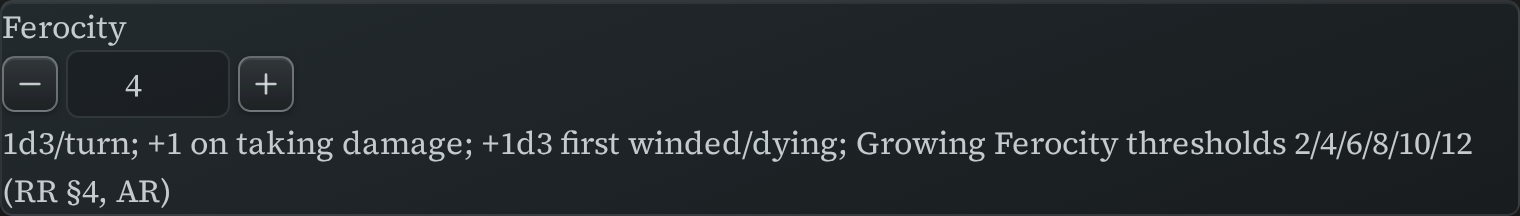
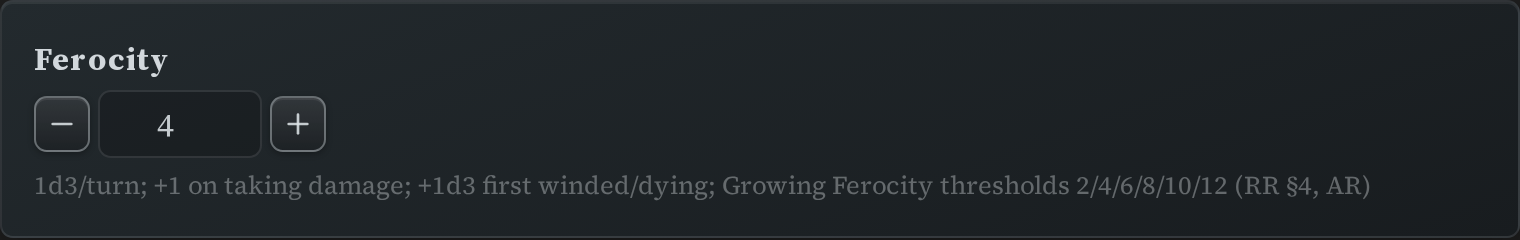
fix(steel): un-double-plate the hero sheet; repair the res/surge dead selectors (SC-152)
Adversarial-review fix round.

H-1 — `hero` is out of the shared plate again. `.dse-hero`, one node down, has
carried the full plate since SC-10 (a class-keyed rule, invisible to an
element-stamp probe), so adding the root produced two concentric frames: root
760x1101.9 with `.dse-hero` inset 17px inside it, where base had the two rects
coinciding at 24,24 760x1067.9. Removed from the dark plate, the light plate and
the root-padding lists, and from the guard's SHEET_PANELS. Measured after:
both rects back to 24,24 760x1067.9, first ink at 17/17 as at base.

H-2 — the root cause behind the heroic-resource/surges crop. ResourcePanel and
SurgePanel `root.addClass(...)` on the stamped element, so
`[data-dse-element="heroic-resource"] .dse-res` and its surges twin had both
halves on the same node and had never matched since D7: no padding, no bold
label. SC-152's plate made that ship (1px ink inset, clipped stepper). Both
selectors are compound now, matching the DOM as it is. Measured after: 17/17 ink
inset and weight 700 on both, in family with hero-tokens. Deliberately not
unscoped the way FOLLOWUPS #28 did for `.dse-cond-panel` — that would restyle the
hero sheet's own regions, which is a design question, not this repair.

Those blocks are base-tier, so the repair reaches the export-preview twin: two
frozen shots move (`heroic-resource--steel-print.png`, `surges--steel-print.png`,
65/67 identical). Ready-to-apply hashes and before/after crops are in
[…]

diff --git a/test/dom/theme/steelMaterial.test.ts b/test/dom/theme/steelMaterial.test.ts
@@ -1315,9 +1315,19 @@ describe('Steel material contract', () => {
 	// is the mechanism that notices if they fall back out.
 	describe('character-sheet panels (SC-152)', () => {
 		/** The ONE shared card-ground rule — identified by what it paints, not by its
-		 *  selector text, so reformatting the selector list cannot make this vacuous. */
+		 *  selector text, so reformatting the selector list cannot make this vacuous.
+		 *  ANCHORED on `counter` (SC-152 review L-1): three rules in the sheet paint
+		 *  `background: var(--dse-card-bg)` — this one, `.dse-hero` (~6980) and the
+		 *  stamina recovery popover (~8452) — and taking the FIRST match was right only
+		 *  by source order, so a reorder would have silently retargeted the whole block
+		 *  at a different rule. `counter` is the shared ground's oldest member and is
+		 *  what `rootPadding()` already anchors on. */
 		const plateDark = (): Rule => {
-			const r = rules.find((x) => /background:\s*var\(--dse-card-bg\)/.test(x.body));
+			const r = rules.find(
+				(x) =>
+					/background:\s*var\(--dse-card-bg\)/.test(x.body) &&
+					x.selector.includes("[data-dse-element='counter']"),
+			);
 			expect(r).toBeDefined();
 			return r as Rule;
 		};
@@ -1325,6 +1335,7 @@ describe('Steel material contract', () => {
 			const r = rules.find(
 				(x) =>
 					x.selector.includes('body.theme-light') &&
+					x.selector.includes("[data-dse-element='counter']") &&
 					/box-shadow:\s*var\(--dse-bevel\),\s*0 4px 12px/.test(x.body),
 			);
 			expect(r).toBeDefined();
@@ -1341,7 +1352,8 @@ describe('Steel material contract', () => {
 			return r as Rule;
 		};
 
-		/** The eight panels SC-152 brought into the family. */
+		/** The seven panels SC-152 brought into the family.
+		 *  `hero` is NOT one of them — see the dedicated test below. */
 		const SHEET_PANELS = [
 			'characteristics',
 			'values-row',
@@ -1350,7 +1362,6 @@ describe('Steel material contract', () => {
 			'surges',
 			'hero-tokens',
 			'conditions',
-			'hero',
 		];
 
 		it.each(SHEET_PANELS)(
@@ -1381,41 +1392,124 @@ describe('Steel material contract', () => {
 			return out;
 		};
 
-		it('the arm carrying them is print-excluded — paper keeps the plain rendering', () => {
-			// The whole freeze story of this ticket: every SC-152 selector sits behind
-			// :not([data-dse-print="on"]), so not one *--steel-print.png moves. If someone
-			// drops the exclusion, 10+ frozen shots start failing and this fails first,
-			// with a reason attached.
+		/** The `.dse-statgrid__*` rules SC-152 added / joined, found by what they paint. */
+		const statgridCellPad = (): Rule => {
+			const r = rules.find(
+				(x) =>
+					x.selector.includes('.dse-statgrid__cell') &&
+					/^\s*padding:\s*0\.45rem 0\.3rem;\s*$/.test(x.body),
+			);
+			expect(r).toBeDefined();
+			return r as Rule;
+		};
+		const statgridLabel = (): Rule => {
+			const r = rules.find(
+				(x) =>
+					x.selector.includes('.dse-statgrid__label') &&
+					/font-variant:\s*small-caps/.test(x.body),
+			);
+			expect(r).toBeDefined();
+			return r as Rule;
+		};
+		/** The shared sunken-cell rule `.dse-statgrid__cell` joined. */
+		const sunkenCells = (): Rule => {
+			const r = rules.find(
+				(x) =>
+					/background:\s*var\(--dse-surface-sunken\)/.test(x.body) &&
+					x.selector.includes('.dse-init__cell'),
+			);
+			expect(r).toBeDefined();
+			return r as Rule;
+		};
+
+		it('EVERY rule SC-152 touches is print-excluded — paper keeps the plain rendering', () => {
+			// The screen-only story of this ticket: every SC-152 selector sits behind
+			// :not([data-dse-print="on"]), so not one *--steel-print.png moves *because of
+			// the plate*. If someone drops the exclusion, 10+ frozen shots start failing
+			// and this fails first, with a reason attached.
+			//
+			// SC-152 review L-2: the first version of this sweep walked only the three
+			// element-id rules and counted 3, leaving the two `.dse-statgrid__*` rules and
+			// the sunken-cell membership unguarded (they carried the exclusion; it just was
+			// not asserted). All six touched rules are in the sweep now, each with the
+			// marker that identifies SC-152's own contribution to it.
+			//
+			// SCOPE NOTE (SC-152 review H-3): `:not([data-dse-print="on"])` excludes the
+			// on-screen export-PREVIEW twin — which is the surface the frozen
+			// `*--steel-print.png` shots photograph. Real `@media print` is a separate
+			// surface that this exclusion does NOT cover, because Steel's token block
+			// outspecifies the print block; that is a pre-existing, systemic bug tracked as
+			// SC-170, not something this sweep can or does assert.
+			const sweep: { rule: Rule; markers: string[] }[] = [
+				{ rule: plateDark(), markers: SHEET_PANELS.map((id) => `[data-dse-element='${id}']`) },
+				{ rule: plateLight(), markers: SHEET_PANELS.map((id) => `[data-dse-element='${id}']`) },
+				{ rule: rootPadding(), markers: SHEET_PANELS.map((id) => `[data-dse-element='${id}']`) },
+				{ rule: sunkenCells(), markers: ['.dse-statgrid__cell'] },
+				{ rule: statgridCellPad(), markers: ['.dse-statgrid__cell'] },
+				{ rule: statgridLabel(), markers: ['.dse-statgrid__label'] },
+			];
 			let checked = 0;
-			for (const rule of [plateDark(), plateLight(), rootPadding()]) {
+			for (const { rule, markers } of sweep) {
 				for (const arm of topLevelArms(rule.selector)) {
-					if (!SHEET_PANELS.some((id) => arm.includes(`[data-dse-element='${id}']`))) continue;
+					if (!markers.some((m) => arm.includes(m))) continue;
 					expect(arm).toContain(':not([data-dse-print="on"])');
 					checked++;
 				}
 			}
-			// Guard the guard: if the splitter or the rule finders ever stop producing an
-			// arm that mentions a sheet panel, the loop above passes by doing nothing.
-			expect(checked).toBe(3);
+			// Guard the guard: if the splitter or the rule finders ever stop producing a
+			// marked arm, the loop above passes by doing nothing. One arm per rule today.
+			expect(checked).toBe(6);
 		});
 
-		it('stamina-bar and roll are deliberately NOT plated', () => {
+		it('stamina-bar, roll and hero are deliberately NOT plated at the root', () => {
 			// stamina-bar renders its SC-132 interior inside its own collapsible region
 			// frame — a root plate would DOUBLE-frame it. roll is already plated: it
-			// renders an inner `.dse-card`, which the plate rule already matches. Both
-			// exclusions are judgement calls, so they get a test rather than a comment
-			// alone: re-adding either should be a decision, not a drive-by.
-			for (const id of ['stamina-bar', 'roll']) {
+			// renders an inner `.dse-card`, which the plate rule already matches. hero is
+			// the same case as roll one node down: its `.dse-hero` wrapper carries the full
+			// plate (see the next test), and SC-152's first round put the ROOT in the list
+			// too, which shipped two concentric frames on the flagship sheet (the review's
+			// H-1). All three exclusions are judgement calls, so they get a test rather
+			// than a comment alone: re-adding any of them should be a decision, not a
+			// drive-by.
+			for (const id of ['stamina-bar', 'roll', 'hero']) {
 				expect(plateDark().selector).not.toContain(`[data-dse-element='${id}']`);
 				expect(plateLight().selector).not.toContain(`[data-dse-element='${id}']`);
+				expect(rootPadding().selector).not.toContain(`[data-dse-element='${id}']`);
 			}
 		});
 
-		it('only the panels whose inner wrapper does NOT already pad get root padding', () => {
+		it('the hero sheet keeps its plate on the inner .dse-hero, one node down', () => {
+			// The other half of the previous test: `hero` is out of the shared list because
+			// it is ALREADY plated, not because the sheet is meant to be bare. This is a
+			// class-keyed rule, which is why the SC-152 inventory's element-stamp probe
+			// could not see it and concluded the sheet had no outer edge.
+			const heroPlate = rules.find(
+				(r) =>
+					/background:\s*var\(--dse-card-bg\)/.test(r.body) &&
+					r.selector.includes('.dse-hero') &&
+					STEEL_SCOPE.test(r.selector),
+			);
+			expect(heroPlate).toBeDefined();
+			expect(heroPlate!.body).toMatch(/border:\s*1px solid var\(--dse-border\)/);
+			expect(heroPlate!.body).toMatch(/border-radius:\s*var\(--dse-radius\)/);
+			expect(heroPlate!.body).toMatch(/box-shadow:\s*var\(--dse-bevel\)/);
+			// …and it pads itself, which is why `hero` is out of the root-padding list too.
+			expect(heroPlate!.body).toMatch(/padding:\s*var\(--dse-pad\)/);
+		});
+
+		it('only the panels whose own block does NOT already pad get root padding', () => {
 			// The double-padding trap: .dse-res / .dse-surge / .dse-tokens carry
-			// `padding: var(--dse-pad)` themselves, so adding it to their roots too would
-			// double the inset on exactly those three and nothing else would look wrong.
-			for (const id of ['characteristics', 'values-row', 'skills', 'conditions', 'hero']) {
+			// `padding: var(--dse-pad)` in their own element blocks (~3249/~3273/~3295), so
+			// adding it to their roots too would double the inset on exactly those three
+			// and nothing else would look wrong.
+			// SC-152 fix round: for .dse-res / .dse-surge that was true of the STYLESHEET
+			// but not of the DOM — their blocks were joined to the element stamp by a dead
+			// descendant combinator, so the padding never applied and the panels cropped
+			// their content against the new plate at a 1px ink inset. The repair is in
+			// those blocks (compound selector), pinned by
+			// test/dom/elements/{resource,surges}.test.ts; the split here is unchanged and
+			// is now true in the DOM as well: all three sit at a 17px ink inset.
+			for (const id of ['characteristics', 'values-row', 'skills', 'conditions']) {
 				expect(rootPadding().selector).toContain(`[data-dse-element='${id}']`);
 			}
 			for (const id of ['heroic-resource', 'surges', 'hero-tokens']) {

diff --git a/styles-source.css b/styles-source.css
@@ -3594,8 +3594,28 @@ Shared globals
 /* ==================== */
 /* A class-aware, signed stepper (kit .dse-stepper — its own chrome, no color/geometry
    redeclared here) with a label (the resolved resource name, e.g. "Ferocity") above and
-   a gain-rule hint line below. Tokens only — no color literals. */
-[data-dse-element="heroic-resource"] .dse-res {
+   a gain-rule hint line below. Tokens only — no color literals.
+
+   COMPOUND, not descendant (SC-152 fix round). ResourcePanel.mountPanel does
+   `root.addClass('dse-res')` on the element root it is handed (resource/panel.ts:42),
+   so the two halves of `[data-dse-element="heroic-resource"] .dse-res` were the SAME
+   node and this whole block — padding AND the bold label — had never matched anything
+   since D7 shipped. The standalone panel therefore rendered flush against its own
+   border box (1px ink inset once SC-152 gave it a plate) with an un-bold "Ferocity"
+   label, where hero-tokens' otherwise-identical block (~3295) has always been live
+   because TokenPoolContainer really does create an inner `.dse-tokens` wrapper.
+   Fixing the SELECTOR rather than the DOM keeps the hero sheet's embedded region
+   (which gets `.dse-res` on a `.dse-hero__region` div, under a `hero` root) exactly
+   as it renders today — the compound can still only match the STANDALONE element.
+   NOTE the deliberate divergence from FOLLOWUPS #28, which repaired the identical
+   dead-descendant bug on `.dse-cond-panel` (~3188) by UNSCOPING it so the hero
+   sheet's embedded Conditions region picked the rules up too. Doing that here would
+   also restyle the hero sheet's Resource/Surges regions — which already carry their
+   own `.dse-hero__region` heading, so the panel's own bold label would read as a
+   second one — and would move three more frozen `hero*--steel-print.png` shots. That
+   is a hero-sheet design question, not this repair; the compound keeps the blast
+   radius at the two standalone elements SC-152 actually plated. */
+[data-dse-element="heroic-resource"].dse-res {
 	display: flex;
 	flex-direction: column;
 	gap: 0.25em;
@@ -3618,8 +3638,13 @@ Shared globals
 /* The simplest HeroPanel yet: a label above a stepper (kit .dse-stepper — its own
    chrome, no color/geometry redeclared here), with an optional "each = +N damage" hint
    line below (shown only when highest_characteristic is authored). Tokens only — no
-   color literals. */
-[data-dse-element="surges"] .dse-surge {
+   color literals.
+
+   COMPOUND, not descendant — same repair, same reason as heroic-resource above:
+   SurgePanel.mountPanel does `root.addClass('dse-surge')` (surges/panel.ts:38), so
+   the descendant form never matched and the "Surges" label was un-bold and unpadded.
+   (SC-152 fix round.) */
+[data-dse-element="surges"].dse-surge {
 	display: flex;
 	flex-direction: column;
 	gap: 0.25em;
@@ -4727,6 +4752,13 @@ body.theme-light [data-dse-theme='steel']:not([data-dse-print="on"])[data-dse-el
        inside its own collapsible region frame; a root plate would DOUBLE-frame it.
      - `roll` — already plated: it renders an inner `.dse-card`, which the last
        selector below already matches.
+     - `hero` — ALSO already plated, one node down: the sheet's own `.dse-hero`
+       wrapper (hero/view.ts, `root.createDiv({ cls: 'dse-hero' })`) carries the
+       full plate at ~6980, class-keyed rather than element-keyed. SC-152's first
+       round added the ROOT here as well and produced two concentric frames
+       (root 760×1101.9 with `.dse-hero` inset 17px inside it, where base had the
+       two rects coinciding exactly at 24,24 760×1067.9). If a root-level plate is
+       ever wanted it must REPLACE `.dse-hero`'s, not stack on it.
      - `hero`'s embedded regions — structurally unreachable from here, and that is
        the point: the sheet stamps [data-dse-element="hero"] on its ROOT only and
        its regions carry no element attr of their own (they take
@@ -4749,8 +4781,7 @@ body.theme-light [data-dse-theme='steel']:not([data-dse-print="on"])[data-dse-el
 		[data-dse-element='heroic-resource'],
 		[data-dse-element='surges'],
 		[data-dse-element='hero-tokens'],
-		[data-dse-element='conditions'],
-		[data-dse-element='hero']
+		[data-dse-element='conditions']
 	):not([data-dse-error-stage]),
 [data-dse-theme='steel']:not([data-dse-print="on"]) .dse-card {
 	background: var(--dse-card-bg);
@@ -4775,8 +4806,7 @@ body.theme-light [data-dse-theme='steel']:not([data-dse-print="on"]):is(
 		[data-dse-element='heroic-resource'],
 		[data-dse-element='surges'],
 		[data-dse-element='hero-tokens'],
-		[data-dse-element='conditions'],
-		[data-dse-element='hero']
+		[data-dse-element='conditions']
 	):not([data-dse-error-stage]),
 body.theme-light [data-dse-theme='steel']:not([data-dse-print="on"]) .dse-card {
 	box-shadow: var(--dse-bevel), 0 4px 12px rgba(0, 0, 0, 0.08);
@@ -7905,12 +7935,16 @@ body.theme-light [data-dse-theme='steel']:not([data-dse-print="on"]) .dse-hero {
 
       SC-152 adds the character-sheet panels that are in the SAME position — root
       unpadded, so the new plate would otherwise crop its own content. It is a
-      per-element fact, not a family one, so only the five that need it are listed:
-      `heroic-resource`, `surges` and `hero-tokens` deliberately stay OUT because
-      their inner wrappers (.dse-res / .dse-surge / .dse-tokens) already carry
-      `padding: var(--dse-pad)` themselves — adding it here too would double the
-      inset on exactly those three. Measured, not assumed (see the SC-152 report's
-      inventory table). */
+      per-element fact, not a family one, so only the four that need it are listed.
+      `heroic-resource`, `surges` and `hero-tokens` stay OUT because their own
+      element blocks (~3249 / ~3273 / ~3297) already carry
+      `padding: var(--dse-pad)` in every theme — adding it here too would double
+      the inset on exactly those three. (SC-152 fix round: for `heroic-resource`
+      and `surges` that was true of the STYLESHEET but not of the DOM until the
+      dead descendant selectors at ~3249/~3273 were repaired — see the note there.
+      Measured after the repair: all three sit at a 17px ink inset, in family.)
+      `hero` also stays out: its plate lives on the inner `.dse-hero`, which pads
+      itself (~6984). */
 [data-dse-theme='steel']:not([data-dse-print="on"]):is(
 		[data-dse-element='initiative'],
 		[data-dse-element='encounter'],
@@ -7922,8 +7956,7 @@ body.theme-light [data-dse-theme='steel']:not([data-dse-print="on"]) .dse-hero {
 		[data-dse-element='characteristics'],
 		[data-dse-element='values-row'],
 		[data-dse-element='skills'],
-		[data-dse-element='conditions'],
-		[data-dse-element='hero']
+		[data-dse-element='conditions']
 	):not([data-dse-error-stage]) {
 	padding: var(--dse-pad);
 }

diff --git a/test/dom/elements/resource.test.ts b/test/dom/elements/resource.test.ts
@@ -193,11 +193,27 @@ describe('D7 Task 3: canPersist=false — read-only renders WITHOUT write afford
 });
 
 describe('D7 Task 3: source hygiene + CSS contract', () => {
-	test('CSS contract: .dse-res scoped under [data-dse-element="heroic-resource"], tokens only', () => {
-		const sheet = fs.readFileSync(path.join(__dirname, '../../../styles-source.css'), 'utf8');
-		const block = sheet.match(/\[data-dse-element="heroic-resource"\]\s+\.dse-res\s*\{[\s\S]*?\n\}\n\n/);
+	test('CSS contract: .dse-res is COMPOUND with [data-dse-element="heroic-resource"], not a descendant of it — tokens only', () => {
+		// SC-152 fix round. `mountPanel` does `root.addClass('dse-res')` on the very
+		// element the pipeline already stamped `data-dse-element="heroic-resource"` onto
+		// (panel.ts:42 receives the exact `root` ElementView.onMount got), so a
+		// DESCENDANT combinator between the two can never match: both halves are the same
+		// node. The block shipped that way since D7, which is why the standalone panel had
+		// no `padding: var(--dse-pad)` (it rendered flush against its own border box — a
+		// 1px ink inset once SC-152 plated it, against hero-tokens' 17px) and why its
+		// "Ferocity" label rendered un-bold. Same bug class as FOLLOWUPS #28's
+		// `.dse-cond-panel`; see test/dom/elements/conditions.test.ts.
+		// Comments are stripped first — this file's own prose quotes the broken form.
+		const sheet = fs
+			.readFileSync(path.join(__dirname, '../../../styles-source.css'), 'utf8')
+			.replace(/\/\*[\s\S]*?\*\//g, '');
+		expect(sheet).not.toMatch(/\[data-dse-element="heroic-resource"\]\s+\.dse-res\s*\{/);
+		const block = sheet.match(/\[data-dse-element="heroic-resource"\]\.dse-res\s*\{[\s\S]*?\n\}\n/);
 		expect(block).not.toBeNull();
 		expect(block![0]).toMatch(/var\(--dse-/);
+		// The two declarations the dead selector was withholding.
+		expect(block![0]).toMatch(/padding:\s*var\(--dse-pad\)/);
+		expect(block![0]).toMatch(/\.dse-res__label\s*\{[^}]*font-weight:\s*bold/);
 	});
 
 	test('source hygiene: panel.ts/view.ts pass the shared kit style guard (no inline color, no color literals)', () => {

diff --git a/test/dom/elements/surges.test.ts b/test/dom/elements/surges.test.ts
@@ -193,11 +193,21 @@ describe('D7 Task 5: canPersist=false — read-only renders WITHOUT write afford
 });
 
 describe('D7 Task 5: source hygiene + CSS contract', () => {
-	test('CSS contract: .dse-surge scoped under [data-dse-element="surges"], tokens only', () => {
-		const sheet = fs.readFileSync(path.join(__dirname, '../../../styles-source.css'), 'utf8');
-		const block = sheet.match(/\[data-dse-element="surges"\]\s+\.dse-surge\s*\{[\s\S]*?\n\}\n\n/);
+	test('CSS contract: .dse-surge is COMPOUND with [data-dse-element="surges"], not a descendant of it — tokens only', () => {
+		// SC-152 fix round, same repair and same reasoning as resource.test.ts's twin:
+		// `mountPanel` does `root.addClass('dse-surge')` on the stamped root (panel.ts:38),
+		// so the descendant form never matched and the block's `padding: var(--dse-pad)`
+		// and bold "Surges" label never applied. Comments stripped first — the sheet's own
+		// prose quotes the broken form.
+		const sheet = fs
+			.readFileSync(path.join(__dirname, '../../../styles-source.css'), 'utf8')
+			.replace(/\/\*[\s\S]*?\*\//g, '');
+		expect(sheet).not.toMatch(/\[data-dse-element="surges"\]\s+\.dse-surge\s*\{/);
+		const block = sheet.match(/\[data-dse-element="surges"\]\.dse-surge\s*\{[\s\S]*?\n\}\n/);
 		expect(block).not.toBeNull();
 		expect(block![0]).toMatch(/var\(--dse-/);
+		expect(block![0]).toMatch(/padding:\s*var\(--dse-pad\)/);
+		expect(block![0]).toMatch(/\.dse-surge__label\s*\{[^}]*font-weight:\s*bold/);
 	});
 
 	test('source hygiene: panel.ts/view.ts pass the shared kit style guard (no inline color, no color literals)', () => {

diff --git a/CHANGELOG.md b/CHANGELOG.md
@@ -145,16 +145,26 @@ for what needs action.
   (SC-152). The trackers and the reference cards have had the Steel plate — the
   forged gradient ground, hairline edge, rounded corner and soft bevel — since the
   look shipped, but the pieces you actually build a character sheet from did not:
-  Characteristics, Values row, Skills, Heroic resource, Surges, Hero tokens,
-  Conditions and the Hero sheet itself all rendered as bare text on the page, so a
-  sheet made of them read as an undifferentiated run of lines with the odd styled
-  block (a Counter) floating in it. All eight now carry the same plate, so a sheet
-  reads as a set of matching panels. The characteristics row gets one step more,
-  because its shape already existed elsewhere: its cells become the same boxed,
-  small-caps-labelled stat plates the statblock's Size / Speed / Stamina row draws.
-  Nothing moves in print or PDF export — the plate is a screen treatment, and paper
-  keeps the plain, ink-cheap rendering it already had. The Stamina bar and the roll
-  card were already styled and are untouched.
+  Characteristics, Values row, Skills, Heroic resource, Surges, Hero tokens and
+  Conditions all rendered as bare text on the page, so a sheet made of them read as
+  an undifferentiated run of lines with the odd styled block (a Counter) floating in
+  it. All seven now carry the same plate, so a sheet reads as a set of matching
+  panels. The characteristics row gets one step more, because its shape already
+  existed elsewhere: its cells become the same boxed, small-caps-labelled stat
+  plates the statblock's Size / Speed / Stamina row draws. The plate is written as a
+  screen treatment; a real Ctrl-P / Export-to-PDF currently carries it through
+  anyway, along with the other Steel surfaces, and getting print back to a plain,
+  ink-cheap rendering is tracked separately as SC-170.
+- **Heroic resource and Surges get the padding and the bold label they were always
+  meant to have** (SC-152). Their styling was keyed to a descendant of the element,
+  but the class lands on the element itself, so the whole block — the inset that
+  keeps the content off the edge, and the bold "Ferocity" / "Surges" label — had
+  never applied to either panel. Both now match Hero tokens, which had the same
+  styling and always did apply it. (Two print/PDF exports of those two panels change
+  as a result: they gain the same small inset and bold label their sibling already
+  had on paper.)
+- The Hero sheet, the Stamina bar and the roll card were already styled and keep the
+  framing they had.
 - **Statblocks now look like the website out of the box** (SC-123). Two display
   settings shipped on the plugin's own historical look rather than the site's, and
   they were the last two that differed. **Characteristics** now default to the
